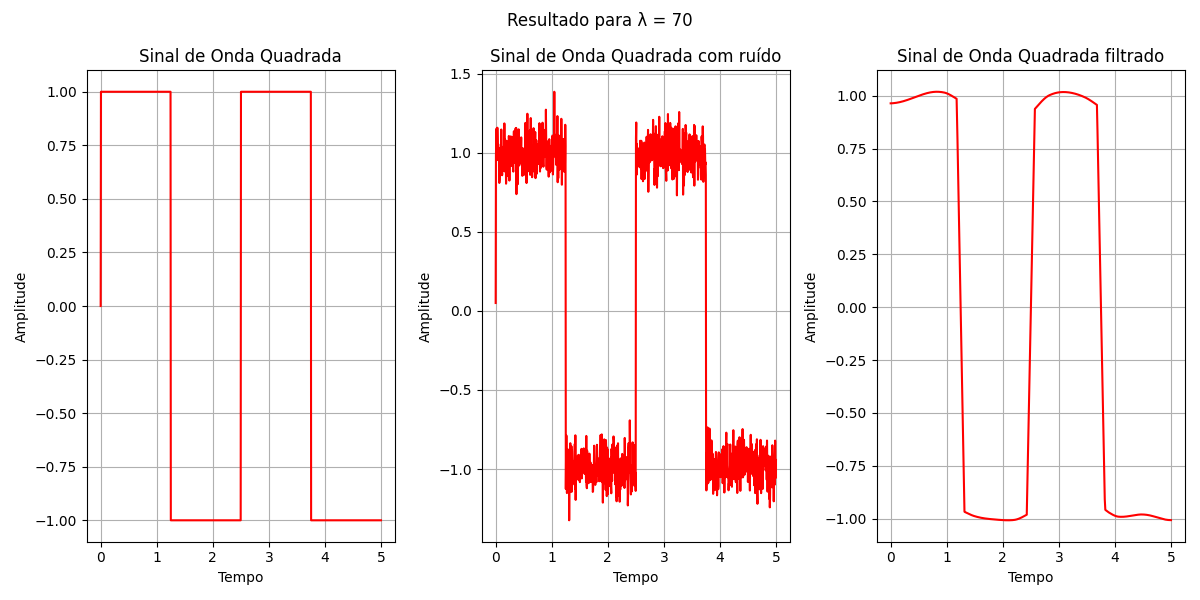
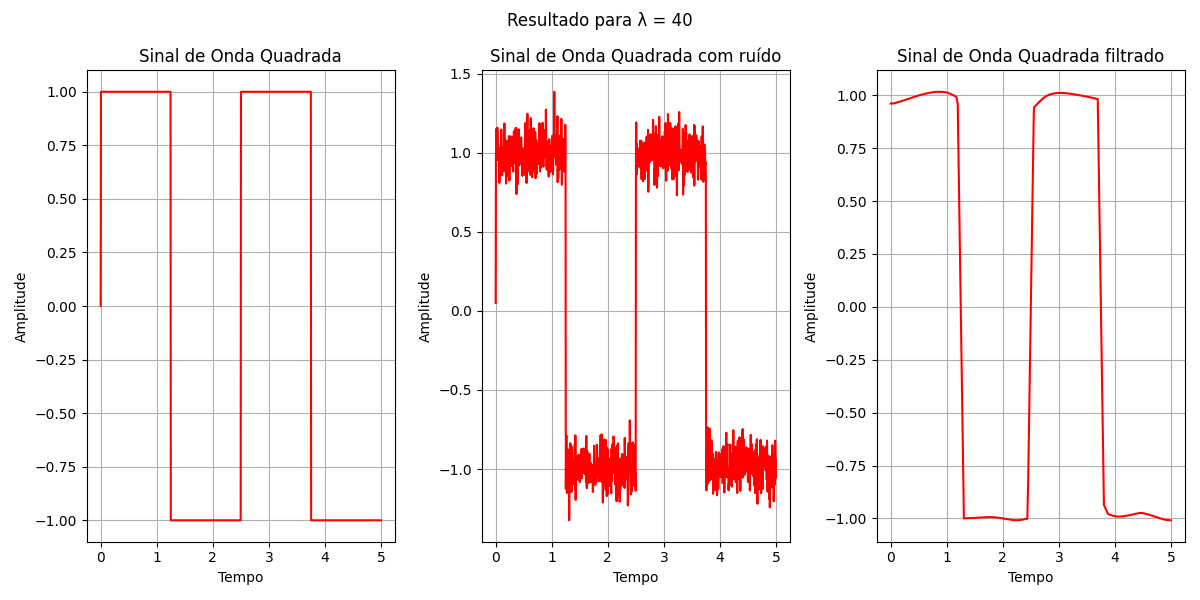
Feito algumas alteracoes

diff --git a/Atividade3/main.py b/Atividade3/main.py
@@ -52,7 +52,7 @@ x_cq = quad + ruido
 
 u = cp.Variable(num_pontos)
 D = np.zeros((num_pontos,num_pontos))
-lmbda = 200
+lmbda = 40000
 
 # Construcao da matriz Delta
 for i in range(num_pontos):
@@ -79,9 +79,11 @@ problem = cp.Problem(obj)
 # Resolucao do problema
 problem.solve()
 
+# print(f'O valor da F.O. para Senoidal L2 é: {problem.value}')
+
 # Plot dos graficos
 fig, axs = plt.subplots(1,3,figsize=(12,6))
-fig.suptitle('Resultado para \u03BB = 200') 
+fig.suptitle(f'Resultado para \u03BB = {lmbda}') 
 axs[0].plot(t,sen)
 axs[0].set_title('Sinal Senoidal')
 axs[0].set_xlabel('Tempo')
@@ -102,7 +104,7 @@ plt.show()
 
 
 # Definicao da F.O. para o Sinal de Onda Quadrada
-lmbda2 = 700
+lmbda2 = 8000
 obj = cp.Minimize(cp.sum_squares(u-x_cq) + lmbda2*cp.sum_squares(D @ u))
 
 # Definicao do problema de otimizacao
@@ -111,9 +113,11 @@ problem = cp.Problem(obj)
 # Resolucao do problema
 problem.solve()
 
+# print(f'O valor da F.O. para Quadrada L2 é: {problem.value}')
+
 # Plot dos graficos
 fig, axs = plt.subplots(1,3,figsize=(12,6))
-fig.suptitle('Resultado para \u03BB = 700')
+fig.suptitle(f'Resultado para \u03BB = {lmbda2}')
 axs[0].plot(t,quad,color='red')
 axs[0].set_title('Sinal de Onda Quadrada')
 axs[0].set_xlabel('Tempo')
@@ -154,9 +158,11 @@ problem2 = cp.Problem(obj2, res)
 # Resolucao do problema
 problem2.solve()
 
+# print(f'O valor da F.O. para Senoidal L1 é: {problem2.value}')
+
 # Plot dos graficos
 fig, axs = plt.subplots(1,3,figsize=(12,6))
-fig.suptitle('Resultado para \u03BB = 50')
+fig.suptitle(f'Resultado para \u03BB = {lmbda3}')
 axs[0].plot(t,sen)
 axs[0].set_title('Sinal Senoidal')
 axs[0].set_xlabel('Tempo')
@@ -179,7 +185,7 @@ plt.show()
 
 u2 = cp.Variable(num_pontos)
 aux = cp.Variable(num_pontos)
-lmbda4 = 70
+lmbda4 = 40
 
 obj2 = cp.Minimize(cp.sum_squares(u2-x_cq) + lmbda4*cp.sum(aux))
 
@@ -196,9 +202,11 @@ problem2 = cp.Problem(obj2, res)
 # Resolucao do problema
 problem2.solve()
 
+# print(f'O valor da F.O. para Quadrada L1 é: {problem2.value}')
+
 # Plot dos graficos
 fig, axs = plt.subplots(1,3,figsize=(12,6))
-fig.suptitle('Resultado para \u03BB = 70')
+fig.suptitle(f'Resultado para \u03BB = {lmbda4}')
 axs[0].plot(t,quad,color='red')
 axs[0].set_title('Sinal de Onda Quadrada')
 axs[0].set_xlabel('Tempo')
